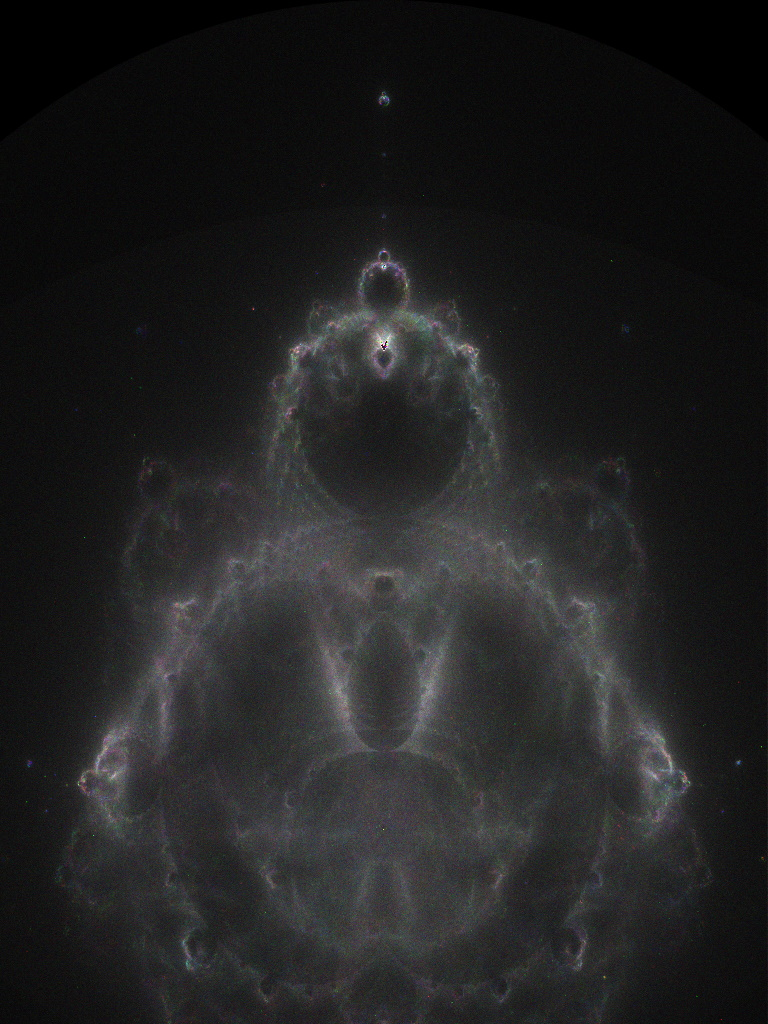
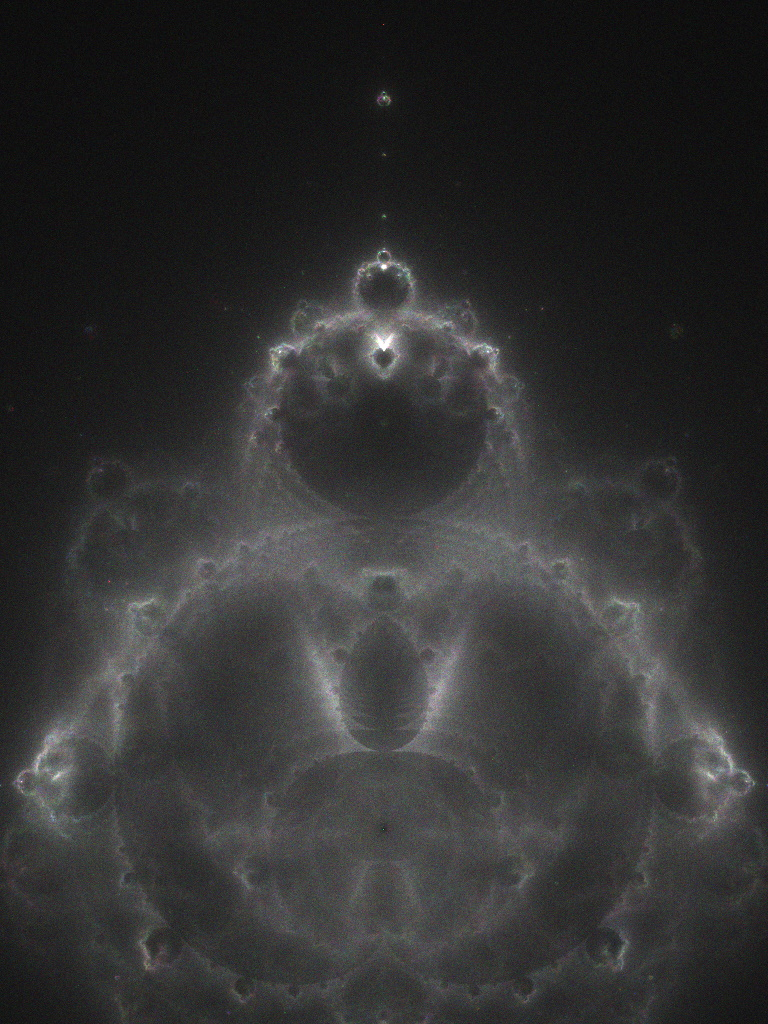
Update README.md with new sample image.

diff --git a/README.md b/README.md
@@ -3,7 +3,7 @@
 An ASP.NET Core Web API for rendering [Buddhabrot](https://en.wikipedia.org/wiki/Buddhabrot)
 images in parallel. This is a personal programming project inspired by the work of Melinda Green.
 
-An example image with 64 passes:
+An example image with 25 million sample points and ten thousand maximum iterations:
 
 ![Buddhabrot example](/assets/images/sample.jpg)
 
